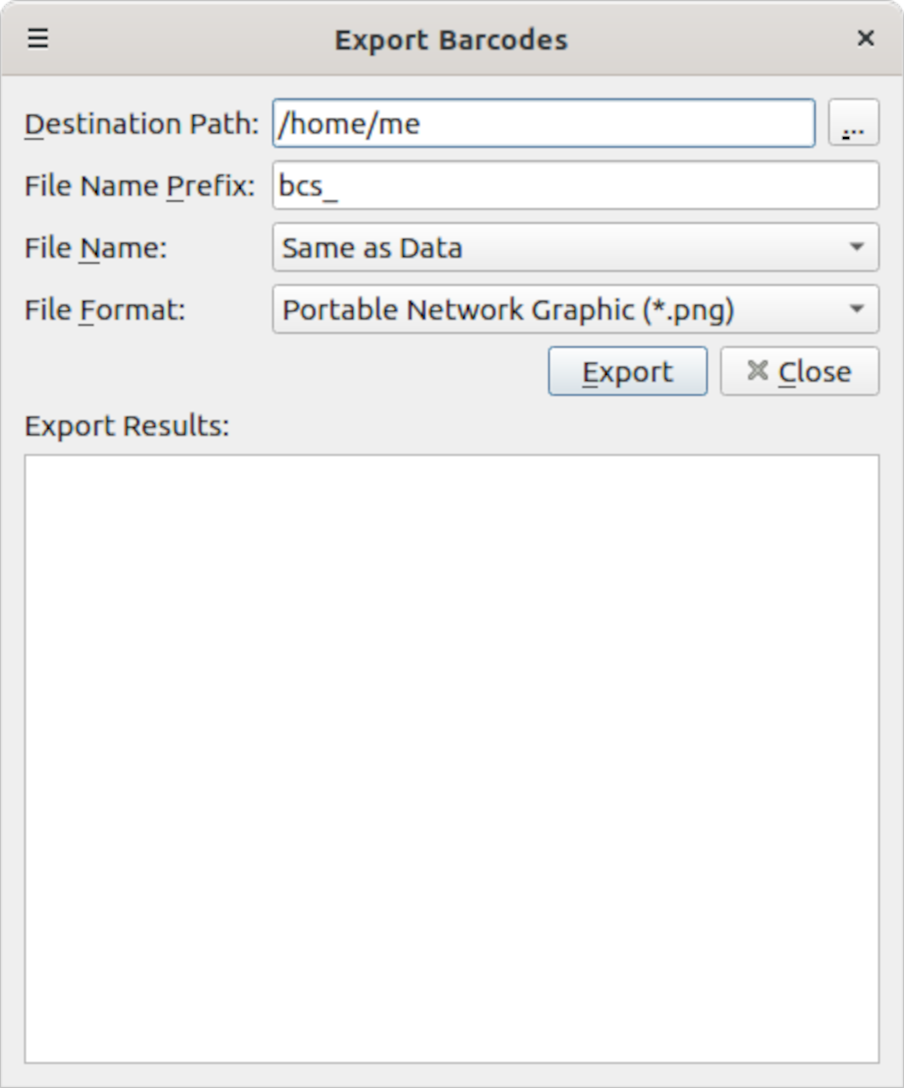
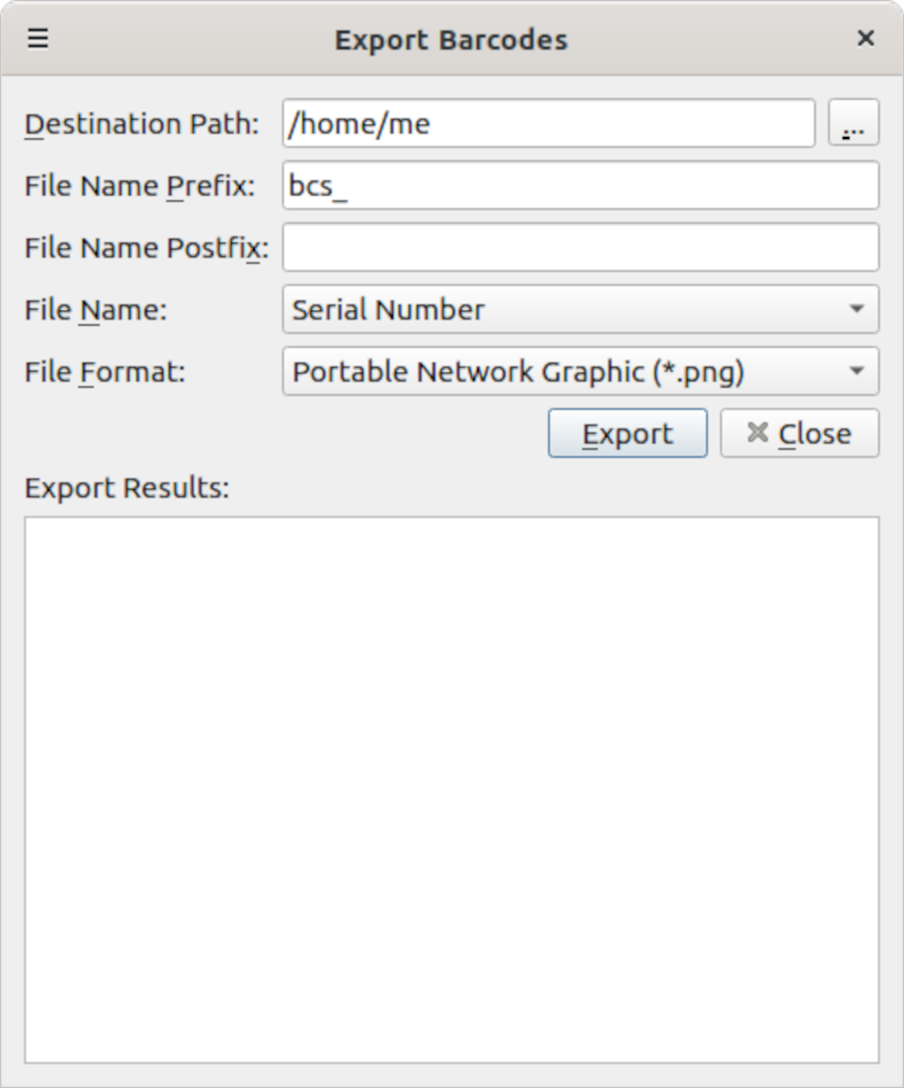
GUI: export dialog: add postfix field for filename (#252) man page: expand --scale spiel, mention MaxiCode exceptionalism manual: make MaxiCode scale exceptionalism a bit clearer

diff --git a/frontend_qt/exportwindow.cpp b/frontend_qt/exportwindow.cpp
@@ -44,6 +44,7 @@ ExportWindow::ExportWindow(BarcodeItem *bc, const QString& output_data) : m_bc(b
     linDestPath->setText(settings.value(QSL("studio/export/destination"),
                         QDir::toNativeSeparators(QDir::homePath())).toString());
     linPrefix->setText(settings.value(QSL("studio/export/file_prefix"), QSL("bcs_")).toString());
+    linPostfix->setText(settings.value(QSL("studio/export/file_postfix"), QSL("")).toString());
     cmbFileName->setCurrentIndex(settings.value(QSL("studio/export/name_format"), 0).toInt());
     cmbFileFormat->setCurrentIndex(settings.value(QSL("studio/export/filetype"), 0).toInt());
 
@@ -65,6 +66,7 @@ ExportWindow::~ExportWindow()
 
     settings.setValue(QSL("studio/export/destination"), linDestPath->text());
     settings.setValue(QSL("studio/export/file_prefix"), linPrefix->text());
+    settings.setValue(QSL("studio/export/file_postfix"), linPostfix->text());
     settings.setValue(QSL("studio/export/name_format"), cmbFileName->currentIndex());
     settings.setValue(QSL("studio/export/filetype"), cmbFileFormat->currentIndex());
 }
@@ -139,6 +141,7 @@ void ExportWindow::process()
     }
 
     QString filePathPrefix = linDestPath->text() % QDir::separator() % linPrefix->text();
+    QString postfix = linPostfix->text();
 
     QStringList Feedback;
     int successCount = 0, errorCount = 0;
@@ -168,9 +171,9 @@ void ExportWindow::process()
                             default: url_escaped += name_qchar; break;
                         }
                     }
-                    fileName = filePathPrefix % url_escaped % suffix;
+                    fileName = filePathPrefix % url_escaped % postfix % suffix;
                 } else {
-                    fileName = filePathPrefix % dataString % suffix;
+                    fileName = filePathPrefix % dataString % postfix % suffix;
                 }
                 break;
             case 1: { /* Formatted Serial Number */
@@ -180,7 +183,7 @@ void ExportWindow::process()
 
                     pad.fill('0', biggest.length() - this_val.length());
 
-                    fileName = filePathPrefix % pad % this_val % suffix;
+                    fileName = filePathPrefix % pad % this_val % postfix % suffix;
                 }
                 break;
         }

diff --git a/backend/tests/testcommon.c b/backend/tests/testcommon.c
@@ -3474,7 +3474,7 @@ int testUtilZXingCPP(int index, struct zint_symbol *symbol, const char *source, 
 
     testutil_pclose(fp);
 
-    if (data_mode && (is_eci_convertible(symbol->eci) || symbol->eci >= 899)) {
+    if ((data_mode && is_eci_convertible(symbol->eci)) || symbol->eci >= 899) {
         const int eci = symbol->eci >= 899 ? 3 : symbol->eci;
         int error_number;
         const int eci_length = get_eci_length(eci, (const unsigned char *) buffer, cnt);
@@ -3621,7 +3621,6 @@ int testUtilZXingCPPCmp(struct zint_symbol *symbol, char *msg, char *cmp_buf, in
             sprintf(maxi + maxi_len, "%.*s\035%.*s\035%.*s\035", primary_len - 6, primary,
                     3, primary + primary_len - 6, 3, primary + primary_len - 3);
             #endif
-            printf("primary %s, primary_len %d\n", primary, primary_len);
             maxi_len = (int) strlen(maxi);
             memcpy(maxi + maxi_len, expected, expected_len);
             expected = maxi;
